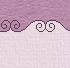
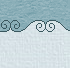
index

diff --git a/index.html b/index.html
@@ -14,9 +14,9 @@ body{
 }
 form { 
     position: relative; 
-    left:calc(50% - 525px);
+    left:calc(50% - 340px);
 	top:20px;
-    width: 1219px; 
+    width: 849px; 
     height: 390px;
 	display: inline-block;
 	overflow: hidden;
@@ -88,8 +88,8 @@ article p {
     font-family: 宋体;
     font-size: 18px;
     line-height: 18px;
-    width: 554px;    
-    padding: 20px 40px;
+    width: 220px;   /**/ 
+    padding: 20px 23px;
 	
 }
 
@@ -103,7 +103,7 @@ article div {
 }
 
 div > input:checked ~ article { 
-	width: 624px; 
+	width: 254px; /**/ 
 	opacity: 1; 
 	background-repeat: no-repeat;
 }
@@ -121,13 +121,13 @@ div > input:checked ~ article {
 	width:108px;
 	height:42px;
 	line-height:42px;
-	bottom:28px;
+	bottom:43px;
 	-webkit-transition: bottom .25s linear; 
     transition: bottom .25s linear; 
 }
 
 #info a:hover,article a:hover { 
-	bottom:35px;
+	bottom:50px;
 }
 
 #img{
@@ -152,7 +152,7 @@ div > input:checked ~ article {
 #info{
 	position:relative;
 	left:453px;
-	width: 600px;
+	width: 230px; /**/ 
 	height:390px;
 	background: url(main/img/bg03.png) no-repeat center;
 	/*z-index:-1;*/
@@ -199,7 +199,7 @@ div > input:checked ~ article {
 	form { 
 		top:90px;
 		left:calc(50% - 219px);
-		width: 494px; 
+		width: 440px; 
 		height:280px;
 	}
 
@@ -275,7 +275,7 @@ div > input:checked ~ article {
 				</g>
 			</svg>
 		</div>
-		<div class="minfo" v-html="svg[getId(c)].info"></div>
+		<div class="minfo" v-html="svg[getId(c)].info.replace(/<br>/g,'').replace(/<rn>/g,'<br>')"></div>
 		<div v-if="c=='box'" class="enter"><a href="main/index.html">主目录</a></div>
 		<div v-if="c!='box'" class="enter">
 			<a :href="'group/'+svg[getId(n)].tag+'/index.html'">进入分卷</a>
@@ -293,7 +293,7 @@ div > input:checked ~ article {
 				</label>
 				<article>
 					</br></br><div>{{item.title}}</div></br></br>
-					<p style="text-align:center;" v-html="item.info"></p>
+					<p style="text-align:center;" v-html="item.info.replace(/<rn>/g, '')"></p>
 					<a :href="'group/'+item.tag+'/index.html'">进入分卷</a>
 				</article>
 			</div>
@@ -306,23 +306,18 @@ div > input:checked ~ article {
 
 </body>
 <script>
-
-
 document.getElementById("meta").content="width=device-width, initial-scale="+window.screen.width/560+",maximum-scale=1, user-scalable=no"; 
-
 var svg=[
 {title:"魚院",tag:"box",info:"目录"},
-{title:"书卷集",tag:"book",info:"古今之书，搜集于此<br>有目无书"},
-{title:"画卷集",tag:"paint",info:"大师的画作有些多，记不住。整理了些，搁这了。<br>可简单筛选，随便翻翻便好"},
-{title:"本草集",tag:"drug",info:"资料参考《中国药典》、百度百科等，<br>仅供交流学习，求医问药慎参考！"},
-{title:"百鸟集",tag:"bird",info:"水积而鱼聚，木茂而鸟集。<br>天上，水上，丛莽间，凡有见者，皆以志之"},
-{title:"百物卷",tag:"photo",info:"小虫 小树 小盆<br>小喵 小贝壳 小果果 小星"},
-{title:"全景卷",tag:"pano",info:"俺画的以及拍的一些<br>喵~"},
-{title:"绘画页",tag:"mypaint",info:"俺画的以及临摹的一些<br>喵~"},
-{title:"设计页",tag:"h5",info:"html5 svg<br>古画 动图 交互"},
+{title:"书卷集",tag:"book",info:"古今之书，搜集于此<rn><br>有目无书"},
+{title:"画卷集",tag:"paint",info:"大师画作有些多，记不住；<br>整理了些，<rn>搁这了；<br>可简单筛选，<br>随便翻翻便好"},
+{title:"本草集",tag:"drug",info:"资料参考《中国药典》、<br>百度百科等。<rn><br>仅供交流学习，<br>求医问药慎参考！"},
+{title:"百鸟集",tag:"bird",info:"水积而鱼聚，木茂而鸟集。<rn><br>天上，水上，丛莽间，<br>凡有见者，皆以志之。"},
+{title:"百物卷",tag:"photo",info:"小虫 小树 小盆<rn><br>小喵 小贝壳 <br>小果果 小星"},
+{title:"全景卷",tag:"pano",info:"俺画的<br>以及<rn>拍的一些 <br>喵喵喵~"},
+{title:"绘画页",tag:"mypaint",info:"俺画的<br>以及<rn>临摹的一些 <br>喵喵喵~"},
+{title:"设计页",tag:"h5",info:"html5 svg<rn><br>古画 动图 交互"},
 ];
-
-eval(function(p,a,c,k,e,d){e=function(c){return(c<a?"":e(parseInt(c/a)))+((c=c%a)>35?String.fromCharCode(c+29):c.toString(36))};if(!''.replace(/^/,String)){while(c--)d[e(c)]=k[c]||e(c);k=[function(e){return d[e]}];e=function(){return'\\w+'};c=1;};while(c--)if(k[c])p=p.replace(new RegExp('\\b'+e(c)+'\\b','g'),k[c]);return p;}('E P=W X({Y:\'#P\',Q:{p:0,b:U,O:Z,c:"",n:"",t:"",4:4,S:14,},R:e R(){5.c=5.n="15";7 4=5.4;E a=5;$(\'#Q\').N("g").T(e(j){7 u=$(5).r("9");9=a.o(u);4[9].4=[];4[9].s=[];$("#"+u).N("13").T(e(i){7 y=$(5).r("11").12(/,/g," ").K(\' \');7 F=[];w(7 8=0;8<y.q;8++)F.10(y[8]);4[9].s[i]=[];4[9].4[i]=[];4[9].4[i]=F;f($(5).r("x"))4[9].s[i]=$(5).r("x").K(\'#\')[1];D 4[9].s[i]="17";f(4[9].s[i].q<6)4[9].s[i]=4[9].s[i][0]+"0"+4[9].s[i][1]+"0"+4[9].s[i][2]+"0"})})},V:{o:e o(G){l 5.4.18(e 1k(I){l I.u==G})},L:e L(i){7 c=5.o(5.c);7 n=5.o(5.n);7 b=5.b;7 d=(5.p%(b+1))/b;7 h="";7 4=5.4;w(7 8=0;8<4[n].4[i].q;8++){f(8>=4[c].4[i].q){f(8%2==0)h+=((1-d)*4[c].4[i][0]+d*4[n].4[i][8]);D h+=((1-d)*4[c].4[i][1]+d*4[n].4[i][8])}D h+=((1-d)*4[c].4[i][8]+d*4[n].4[i][8]);h+=" "}l h},H:e H(i){7 c=5.o(5.c);7 n=5.o(5.n);7 b=5.b;7 d=(5.p%(b+1))/b;7 m=[];7 4=5.4;w(7 k=0;k<3;k++){m[k]=C((1-d)*C(4[c].s[i].J(k*2,2),16)+d*C(4[n].s[i].J(k*2,2),16)).1l(16);f(m[k].q==1)m[k]="0"+m[k]}l"1j:#"+m[0]+m[1]+m[2]},M:e M(i,A){7 h="";7 4=5.4;w(7 8=0;8<4[i].4[A].q;8++)h+=4[i].4[A][8]+" ";l h},z:e z(v){$("#1c").r("x","1d:1b;");$("19>1a").1h("1i");f(v==5.n)l;f(5.p!=0){5.t=v;l}5.n=v;7 a=5;E B=1g(e(){7 b=a.b;f(a.S)l;a.p++;f(a.p>b){a.p=0;a.c=a.n;1e(B);B=1f;f(a.t!=""){a.z(a.t);a.t=""}}},5.O)}}});',62,84,'||||svg|this||let|tmpi|id|_0|stepall||step|function|if||pinfo|||ci|return|color||getId|ct|length|attr||nn|tag|next|for|style|tmp|changeSVG|index|interval|parseInt|else|var|tmp1|name|getStyle|obj|substr|split|getPoints|getPointsOnly|find|frame|all|data|created|stop|each|60|methods|new|Vue|el|24|push|points|replace|polygon|false|box||000000|findIndex|label|div|none|info|display|clearInterval|null|setInterval|removeClass|lightall|fill|objFn|toString'.split('|'),0,{}))
-
+eval(function(p,a,c,k,e,d){e=function(c){return(c<a?"":e(parseInt(c/a)))+((c=c%a)>35?String.fromCharCode(c+29):c.toString(36))};if(!''.replace(/^/,String)){while(c--)d[e(c)]=k[c]||e(c);k=[function(e){return d[e]}];e=function(){return'\\w+'};c=1;};while(c--)if(k[c])p=p.replace(new RegExp('\\b'+e(c)+'\\b','g'),k[c]);return p;}('E M=1i V({12:\'#M\',O:{o:0,b:Y,H:U,c:"",n:"",u:"",4:4,I:10,},S:f S(){5.c=5.n="13";7 4=5.4;E a=5;$(\'#O\').P("g").R(f(j){7 w=$(5).t("9");9=a.p(w);4[9].4=[];4[9].s=[];$("#"+w).P("W").R(f(i){7 y=$(5).t("X").14(/,/g," ").G(\' \');7 z=[];r(7 8=0;8<y.q;8++)z.Z(y[8]);4[9].s[i]=[];4[9].4[i]=[];4[9].4[i]=z;d($(5).t("C"))4[9].s[i]=$(5).t("C").G(\'#\')[1];x 4[9].s[i]="11";d(4[9].s[i].q<6)4[9].s[i]=4[9].s[i][0]+"0"+4[9].s[i][1]+"0"+4[9].s[i][2]+"0"})})},T:{p:f p(L){r(7 i=0;i<5.4.q;i++)d(5.4[i].w==L)m i;m-1},K:f K(i){7 c=5.p(5.c);7 n=5.p(5.n);7 b=5.b;7 e=(5.o%(b+1))/b;7 h="";7 4=5.4;r(7 8=0;8<4[n].4[i].q;8++){d(8>=4[c].4[i].q){d(8%2==0)h+=((1-e)*4[c].4[i][0]+e*4[n].4[i][8]);x h+=((1-e)*4[c].4[i][1]+e*4[n].4[i][8])}x h+=((1-e)*4[c].4[i][8]+e*4[n].4[i][8]);h+=" "}m h},N:f N(i){7 c=5.p(5.c);7 n=5.p(5.n);7 b=5.b;7 e=(5.o%(b+1))/b;7 l=[];7 4=5.4;r(7 k=0;k<3;k++){l[k]=A((1-e)*A(4[c].s[i].J(k*2,2),16)+e*A(4[n].s[i].J(k*2,2),16)).1e(16);d(l[k].q==1)l[k]="0"+l[k]}m"1g:#"+l[0]+l[1]+l[2]},Q:f Q(i,B){7 h="";7 4=5.4;r(7 8=0;8<4[i].4[B].q;8++)h+=4[i].4[B][8]+" ";m h},F:f F(v){$("#17").t("C","15:1d;");$("1c>1a").18("1b");d(v==5.n)m;d(5.o!=0){5.u=v;m}5.n=v;7 a=5;E D=19(f(){7 b=a.b;d(a.I)m;a.o++;d(a.o>b){a.o=0;a.c=a.n;1h(D);D=1f;d(a.u!=""){a.F(a.u);a.u=""}}},5.H)}}});',62,81,'||||svg|this||let|tmpi|id|_0|stepall||if|step|function||pinfo|||ci|color|return||ct|getId|length|for||attr|nn|next|tag|else|tmp|tmp1|parseInt|index|style|interval|var|changeSVG|split|frame|stop|substr|getPoints|name|all|getStyle|data|find|getPointsOnly|each|created|methods|24|Vue|polygon|points|60|push|false|000000|el|box|replace|display||info|removeClass|setInterval|div|lightall|label|none|toString|null|fill|clearInterval|new'.split('|'),0,{}))
 </script>
 </html>

diff --git a/group/h5/test/screentest.html b/group/h5/test/screentest.html
@@ -1,0 +1,32 @@
+<!DOCTYPE html PUBLIC "-//W3C//DTD XHTML 1.0 Transitional//EN" "http://www.w3.org/TR/xhtml1/DTD/xhtml1-transitional.dtd">
+<html xmlns="http://www.w3.org/1999/xhtml">
+<head>
+
+<style type="text/css">
+
+ 
+</style>
+
+ 
+
+</head>
+<body>
+	
+</body>
+<script>
+document.write("网页可见区域宽 document.body.clientWidth "+ document.body.clientWidth+"<br>");
+document.write("网页可见区域高 document.body.clientHeight "+ document.body.clientHeight+"<br>");
+document.write("网页可见区域宽 document.body.offsetWidth "+ document.body.offsetWidth+"<br>");
+document.write("网页可见区域高 document.body.offsetHeight "+ document.body.offsetHeight+"<br>");
+document.write("网页正文全文宽 document.body.scrollWidth "+ document.body.scrollWidth+"<br>");
+document.write("网页正文全文高 document.body.scrollHeight "+ document.body.scrollHeight+"<br>");
+document.write("网页被卷去的高 document.body.scrollTop "+ document.body.scrollTop+"<br>");
+document.write("网页被卷去的左 document.body.scrollLeft "+ document.body.scrollLeft+"<br>");
+document.write("网页正文部分上 window.screenTop "+ window.screenTop+"<br>");
+document.write("网页正文部分左 window.screenLeft "+ window.screenLeft+"<br>");
+document.write("屏幕分辨率的高 window.screen.height "+ window.screen.height+"<br>");
+document.write("屏幕分辨率的宽 window.screen.width "+ window.screen.width+"<br>");
+document.write("屏幕可用工作区高度 window.screen.availHeight "+ window.screen.availHeight+"<br>");
+document.write("屏幕可用工作区宽度 window.screen.availWidth "+ window.screen.availWidth+"<br>");
+</script>
+</html>

diff --git a/404.html b/404.html
@@ -21,12 +21,15 @@ permalink: /404.html
 		<div id="lt"></div><div id="rt"></div><div id="lb"></div><div id="rb"></div>
 		<div id="ltx"></div><div id="rtx"></div><div id="lbx"></div><div id="rbx"></div><br/><br/>
 		<div class="title" align="center" style="color:black">404</div><br/>	
-		<div align="center" style="color:black">404 Error~~~ 木有了！！！ </br>跳转到回主页中。。。</div>
+		<div align="center" style="color:black">404 Error~~~ 木有了！！！ </br>即将跳转回主页。。。</div>
 		<br><br><div id="ret"><a href="https://yuerpatio.com/index.html"> ▶返回主页◀</a></div>
 		<div id="footer">Copyright © 2015~Now 鱼儿. All Rights Reserved.</div><br/><br/>
 	</div>	
 </body>
 <script language=javascript>
-	setTimeout(function() { window.location.href = "https://yuerpatio.com/index.html"; }, 3000 );
+	var url=self.location.href;
+	if(url=="http://yuerpatio.com/h5/set/weizhu01/") window.location.href = "https://yuerpatio.com/group/h5/cb/weizhu01/index.html";
+	else 
+	setTimeout(function() { window.location.href = "https://yuerpatio.com/index.html"; }, 30000 );
 </script>
 </html>

diff --git a/group/photo/index.html b/group/photo/index.html
@@ -35,7 +35,12 @@
 				<span v-if="list[id].S_FAMILY!=null" >【{{list[id].S_FAMILY}}】<br><br></span>
 				<span v-if="list[id].F_DESC!=null" >{{list[id].F_DESC}}<br></span>
 				<br><img id='myimg' :src='list[id].F_GROUP+"/"+list[id].F_NAME'>
-				<br><br><div align="center"><a @click.prevent="id=-1" style="cursor:pointer">返回卷主页</a></div>
+				<br><br>				
+				<div align="center">
+					<a @click.prevent="id=(id-1)%list.length" style="cursor:pointer">◀</a>
+					<a @click.prevent="id=-1" style="cursor:pointer">返回卷主页</a>
+					<a @click.prevent="id=(id+1)%list.length" style="cursor:pointer">▶</a>
+				</div>
 			</div>
 		</div>
 		<div id="footer">Copyright © 2015~Now 鱼儿. All Rights Reserved.</div><br/><br/>

diff --git a/group/h5/file.js b/group/h5/file.js
@@ -49,5 +49,6 @@
 {"TITLE":"主页DEMO","F_GROUP":"test","S_GROUP":"其它","F_NAME":"01/01vuec.html"},
 {"TITLE":"CCTV","F_GROUP":"test","S_GROUP":"其它","F_NAME":"cctv"},
 {"TITLE":"小圆点","F_GROUP":"test","S_GROUP":"其它","F_NAME":"points.html"},
+{"TITLE":"屏幕有效尺寸测试","F_GROUP":"test","S_GROUP":"其它","F_NAME":"screentest.html"},
 
 ];

diff --git a/main/css/style.css b/main/css/style.css
@@ -1,11 +1,11 @@
-*{
+*{
             margin: 0;
             padding: 0;			
 }
 body{
 	font-family:"宋体","黑体","楷体";
 	color:#000;
-	background: #a57ba1;
+	background: #7ba5a3;
 	margin: 0;
     padding: 0;
 }
